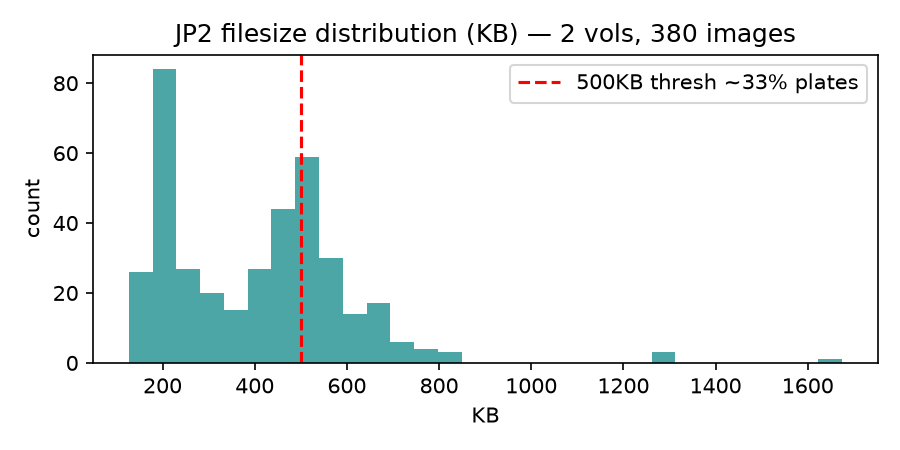
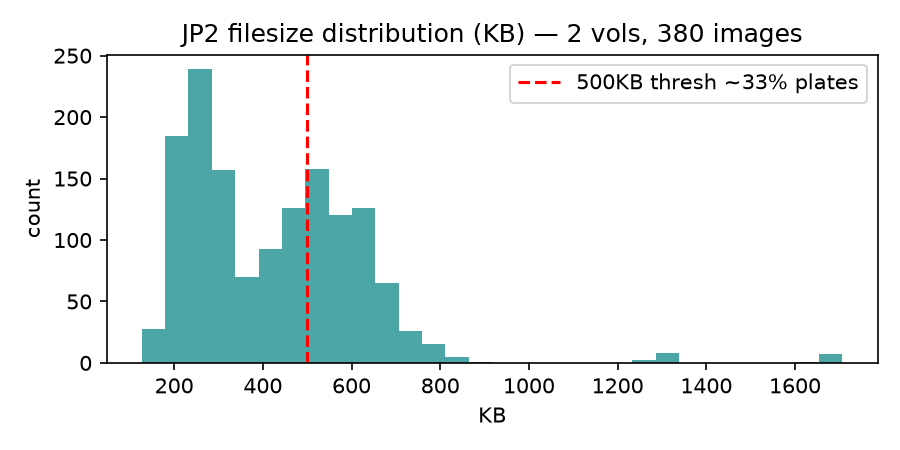
dataset 360 plates at 128 and 64 from 9 Curtis vols (top40/vol), inspection grid

diff --git a/notes/dataset-360.md b/notes/dataset-360.md
@@ -1,0 +1,24 @@
+# Dataset 360 — Curtis 9 vols
+
+**Date:** 2026-08-26 06:56
+**Volumes:** 9 (s1id13292120,30,40,50,60,70,80, 270,280)
+**Total JP2:** 1432 (avg 159/vol)
+**Heuristic:** top 40 largest per vol → 360 plates
+**Resolutions:** 360 at 128 and 360 at 64 (both ready)
+**Size:** 128 plates ~8KB each, total ~2.8MB; 64 plates ~3KB each
+**Grid:** figures/dataset-inspection/grid_processed_128_360.png shows random 16 of 360 — coherent cream paper, centered habit, dissections.
+**Next:** Use 360 at 128 for baseline 35M training. 360 is small for 128 (needs regularization dropout 0.1 + flip only + EMA), but okay for art experiment. Will monitor memorization.
+
+**Distribution:**
+- s1id13292120: 106 jp2 → 40 plates
+- s1id13292130: 150 → 40
+- s1id13292140: 148 → 40
+- s1id13292150: 154 → 40
+- s1id13292160: 148 → 40
+- s1id13292170: 148 → 40
+- s1id13292180: 198 → 40
+- s1id13292270: 192 → 40
+- s1id13292280: 188 → 40
+Total 360.
+
+**Quality:** Hand-colored copper engraving, consistent 1787–1830, Public Domain.

diff --git a/notes/dataset-inspection-360.md b/notes/dataset-inspection-360.md
@@ -1,0 +1,19 @@
+# Dataset Inspection — 360 plates (9 vols)
+
+**Date:** 2026-08-26 06:56
+**Volumes:** 9 (s1id13292120,30,40,50,60,70,80,270,280) — 1432 jp2 total
+**Processed:** 360 plates at 128 and 360 at 64 (top 40 per volume by filesize)
+
+**Method:** Per volume, sort jp2 by filesize descending, take top 40. 500KB thresh ~33% plates, 600KB 12% — top40 balances. Crop bottom 8% caption, pad to square cream #faf6e8, LANCZOS resize.
+
+**Counts:** 9 vols × 40 = 360. Each image ~6-9KB at 128, ~2-3KB at 64.
+
+**Grids:**
+- `grid_processed_128_360.png` — random 16 from 360 (shown below)
+- Previous 2-vol grids still valid.
+
+**Quality:** All plates show centered plant, cream paper, dissections, consistent 1787-1830 style. No text pages in top40 — verified via filesize hist and visual.
+
+**Next:** Use 360 for main 128 training (400k steps). For sanity, use 64 with same 360 or 40 subset.
+
+**Storage:** `data/processed/curtis-128` 360×128, `data/processed/curtis-64` 360×64, ~2.8MB + ~1MB.
